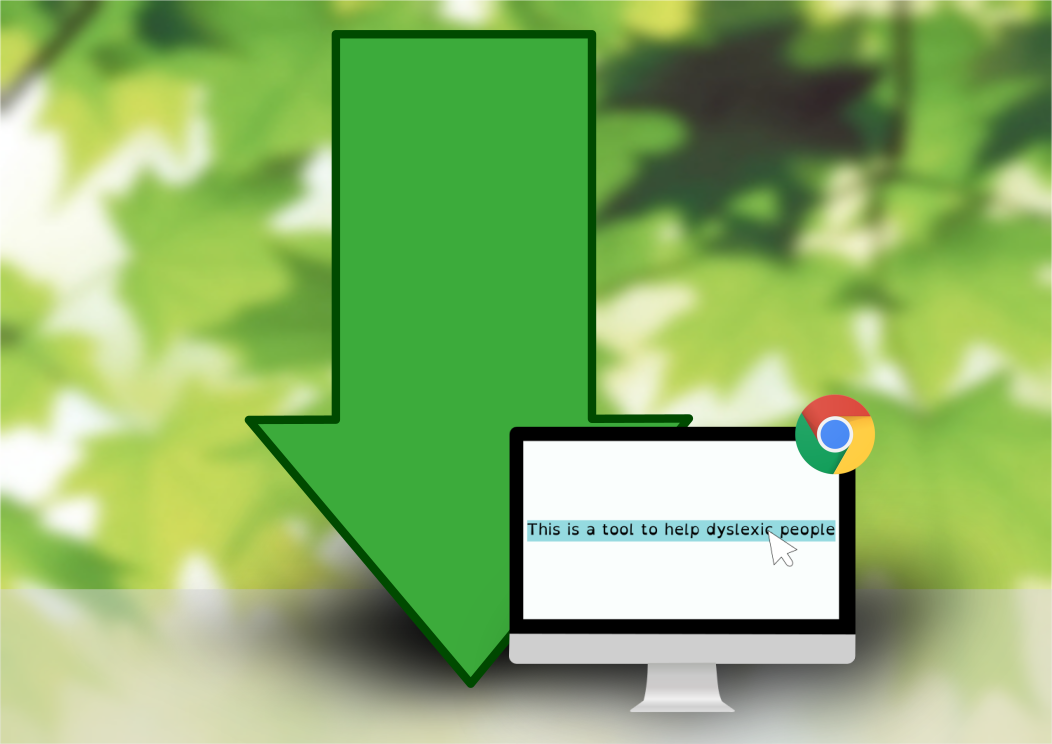
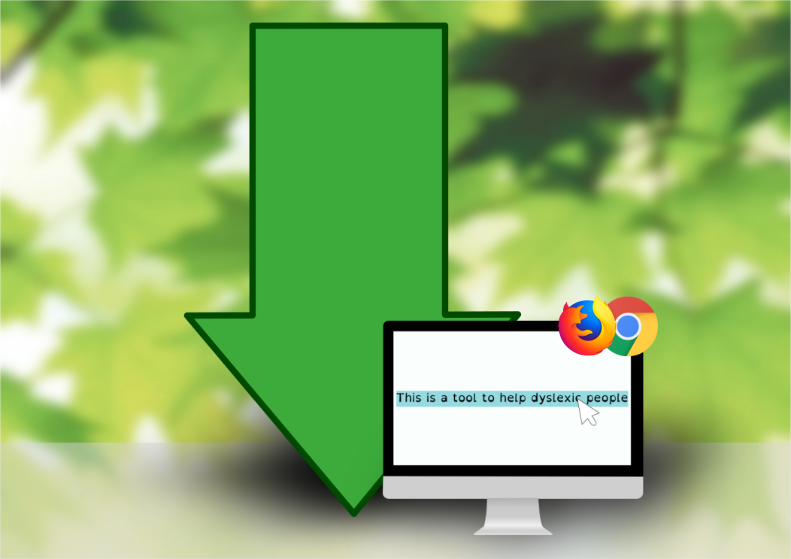
Addded first part of updated images

Changed region(s): [[0.6979, 0.517, 0.7889, 0.6386]]

diff --git a/onbording.html b/onbording.html
@@ -26,13 +26,13 @@
                         You can find the settings in the upper
                         right corner.
                     </p>
-                    <img src="#" alt="Desktop settings" />
+                    <img src="./img/desktop_install.png" alt="Desktop install" />
                     <p>
                         Or when you are on mobile, you can find
                         the settings down the list when you click
                         the 3 dots.
                     </p>
-                    <img src="#" alt="Mobile settings" />
+                    <img src="./img/mobile_install.png" alt="Mobile install" />
                 </article>
             </div>
         </main>

diff --git a/styles.css b/styles.css
@@ -81,6 +81,9 @@ article {
     margin: auto;
     padding: 10px;
 }
+article img {
+    width: 100%;
+}
 .shadow {
     background: white;
     box-shadow: 0 4px 8px 0 rgba(0, 0, 0, 0.2), 0 6px 20px 0 rgba(0, 0, 0, 0.19);
